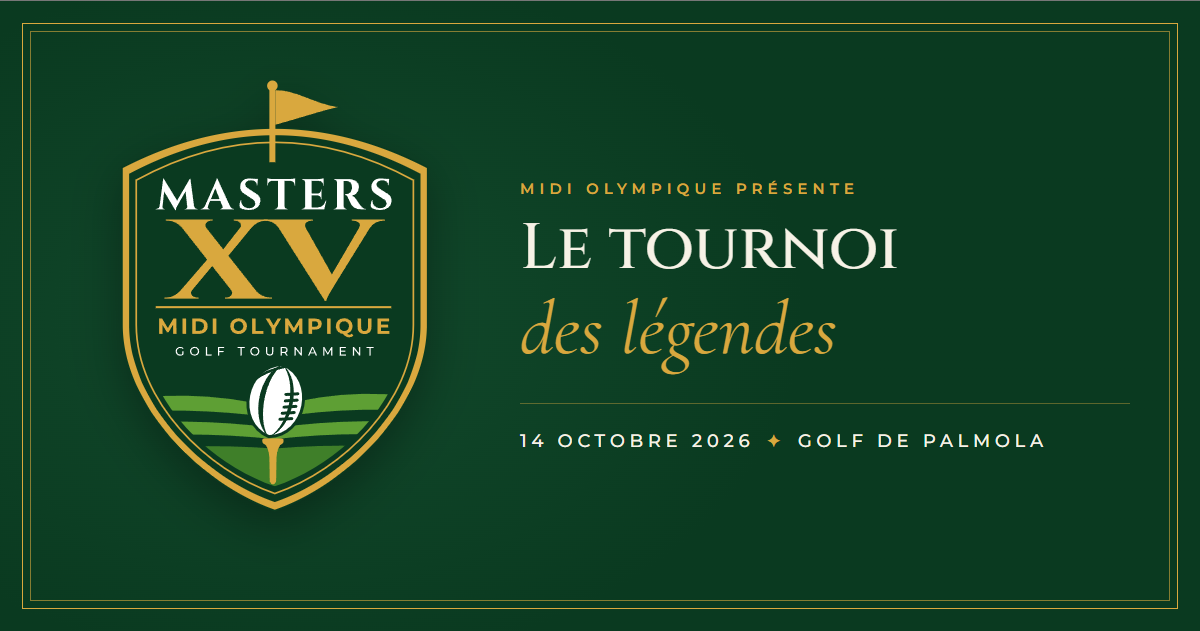
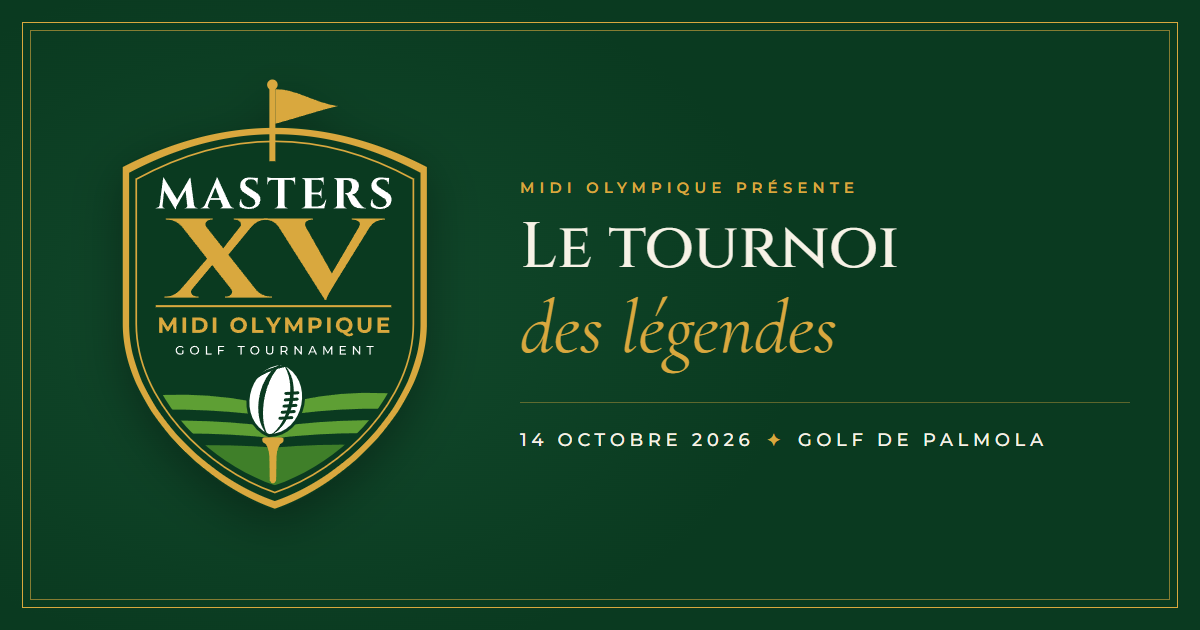
Partage : balises Open Graph et Twitter complètes, image 1200×630, icône iPhone ; canonique propre à chaque page

diff --git a/index.html b/index.html
@@ -7,14 +7,27 @@
     <meta name="theme-color" content="#0A3A20" />
     <title>Masters XV – Le tournoi des légendes Midi Olympique</title>
     <meta name="description" content="Masters XV, le tournoi de golf des légendes du rugby par Midi Olympique. Mercredi 14 octobre 2026 au golf de Palmola : shamble à 4, concours de drive et de précision, déjeuner et remise des prix." />
+    <!-- Partage (WhatsApp, Instagram, Facebook, LinkedIn, iMessage, X) : image 1200 × 630 -->
     <meta property="og:type" content="website" />
+    <meta property="og:site_name" content="Masters XV" />
     <meta property="og:locale" content="fr_FR" />
+    <meta property="og:locale:alternate" content="en_GB" />
     <meta property="og:title" content="Masters XV – Le tournoi des légendes Midi Olympique" />
-    <meta property="og:description" content="Mercredi 14 octobre 2026 · Golf de Palmola · Shamble à 4" />
+    <meta property="og:description" content="Mercredi 14 octobre 2026 · Golf de Palmola · Shamble à 4, concours de drive et de précision, déjeuner et remise des prix." />
     <meta property="og:url" content="https://masters-xv.fr/" />
-    <meta property="og:image" content="https://masters-xv.fr/og-image.png" />
-    <link rel="canonical" href="https://masters-xv.fr/" />
+    <meta property="og:image" content="https://masters-xv.fr/og-image.png?v=2" />
+    <meta property="og:image:secure_url" content="https://masters-xv.fr/og-image.png?v=2" />
+    <meta property="og:image:type" content="image/png" />
+    <meta property="og:image:width" content="1200" />
+    <meta property="og:image:height" content="630" />
+    <meta property="og:image:alt" content="Masters XV – Le tournoi des légendes · 14 octobre 2026 · Golf de Palmola" />
     <meta name="twitter:card" content="summary_large_image" />
+    <meta name="twitter:title" content="Masters XV – Le tournoi des légendes Midi Olympique" />
+    <meta name="twitter:description" content="Mercredi 14 octobre 2026 · Golf de Palmola · Shamble à 4" />
+    <meta name="twitter:image" content="https://masters-xv.fr/og-image.png?v=2" />
+    <meta name="twitter:image:alt" content="Masters XV – Le tournoi des légendes · 14 octobre 2026 · Golf de Palmola" />
+    <link rel="canonical" href="https://masters-xv.fr/" />
+    <link rel="apple-touch-icon" href="/logo/apple-touch-icon.png" />
   </head>
   <body>
     <div id="root"></div>

diff --git a/src/App.jsx b/src/App.jsx
@@ -30,6 +30,10 @@ export default function App() {
     document.documentElement.lang = lang
     document.title = slug ? `${LEGAL[lang][slug].title} – Masters XV` : guest ? t.guest.meta.title : t.meta.title
     document.querySelector('meta[name="description"]')?.setAttribute('content', t.meta.description)
+    // Adresse canonique propre à chaque page (accueil, pages légales)
+    const canonical = `https://masters-xv.fr/${slug || ''}`
+    document.querySelector('link[rel="canonical"]')?.setAttribute('href', canonical)
+    document.querySelector('meta[property="og:url"]')?.setAttribute('content', canonical)
   }, [lang, slug, guest, t])
 
   // Page des invités : lien privé, non référencé
